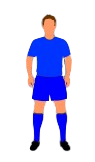
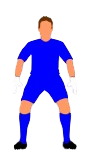
feat: add collapsible sidebar sections and equipment element sprites to tactical designer
Sidebar sections (Field Type, Players, Elements, Drawing Tools) now collapse/expand with chevron toggles. Replaced basic Konva shapes with PNG sprites from public/elements/ for ball, cone, disc, goal, ladder, mini-goal, and ring.

Changed region(s): [[0.1522, 0.0769, 0.8478, 0.9744], [0.7826, 0.5641, 0.8043, 0.6154], [0.8261, 0.5641, 0.8478, 0.5897]]

diff --git a/src/components/TacticalBoard.tsx b/src/components/TacticalBoard.tsx
@@ -5,12 +5,13 @@ import {
   Trash2,
   RotateCcw,
   Type,
-  Square,
   X,
   Target,
   RectangleVertical,
   RectangleHorizontal,
-  BoxSelect
+  BoxSelect,
+  ChevronDown,
+  ChevronRight,
 } from 'lucide-react';
 import useImage from 'use-image';
 import { cn } from '../lib/utils';
@@ -18,7 +19,8 @@ import { useTranslation } from '../hooks/useTranslation';
 
 type ElementType =
   | 'player' | 'gk'
-  | 'ball' | 'cone' | 'text'
+  | 'ball' | 'cone' | 'disc' | 'goal' | 'ladder' | 'miniGoal' | 'ring'
+  | 'text'
   | 'arrow' | 'curvedArrow' | 'zigzag'
   | 'dashedArrow' | 'dashedCurvedArrow' | 'dashedZigzag'
   | 'shape' | 'ellipse';
@@ -79,6 +81,44 @@ const SPRITE_IMAGES: Record<string, string> = {
   gk: '/avatar.png',
 };
 
+const ELEMENT_IMAGES: Record<string, string> = {
+  ball: '/elements/ball.png',
+  cone: '/elements/cone.png',
+  disc: '/elements/disc.png',
+  goal: '/elements/goal.png',
+  ladder: '/elements/ladder.png',
+  miniGoal: '/elements/mini-goal.png',
+  ring: '/elements/ring.png',
+};
+
+const ELEMENT_SPRITE_SIZE: Record<string, { w: number; h: number }> = {
+  ball: { w: 20, h: 20 },
+  cone: { w: 24, h: 24 },
+  disc: { w: 26, h: 10 },
+  goal: { w: 48, h: 32 },
+  ladder: { w: 20, h: 48 },
+  miniGoal: { w: 36, h: 24 },
+  ring: { w: 22, h: 22 },
+};
+
+const ELEMENT_TYPES: ElementType[] = ['ball', 'cone', 'disc', 'goal', 'ladder', 'miniGoal', 'ring'];
+
+const CollapsibleSection: React.FC<{ title: string; defaultOpen?: boolean; children: React.ReactNode }> = ({ title, defaultOpen = true, children }) => {
+  const [open, setOpen] = useState(defaultOpen);
+  return (
+    <div>
+      <button
+        onClick={() => setOpen(o => !o)}
+        className="flex items-center gap-1 w-full text-left text-[10px] text-on-surface-variant uppercase font-bold mb-2"
+      >
+        {open ? <ChevronDown className="w-3 h-3" /> : <ChevronRight className="w-3 h-3" />}
+        {title}
+      </button>
+      {open && children}
+    </div>
+  );
+};
+
 const AvatarSprite = ({ x, y, type, isSelected, draggable, onClick, onTap, onDragEnd, id }: {
   x: number; y: number; type: 'player' | 'gk'; isSelected: boolean;
   draggable?: boolean; onClick?: () => void; onTap?: () => void; onDragEnd?: (e: any) => void; id?: string;
@@ -95,6 +135,26 @@ const AvatarSprite = ({ x, y, type, isSelected, draggable, onClick, onTap, onDra
         <Image image={img} x={-half} y={-half} width={size} height={size} />
       ) : (
         <Circle radius={half} fill="#555" />
+      )}
+    </Group>
+  );
+};
+
+const ElementSprite = ({ x, y, type, isSelected, draggable, onClick, onTap, onDragEnd, onTransformEnd, id }: {
+  x: number; y: number; type: ElementType; isSelected: boolean;
+  draggable?: boolean; onClick?: () => void; onTap?: () => void; onDragEnd?: (e: any) => void; onTransformEnd?: (e: any) => void; id?: string;
+}) => {
+  const [img] = useImage(ELEMENT_IMAGES[type]);
+  const size = ELEMENT_SPRITE_SIZE[type] || { w: 24, h: 24 };
+  return (
+    <Group id={id} x={x} y={y} draggable={draggable} onClick={onClick} onTap={onTap} onDragEnd={onDragEnd} onTransformEnd={onTransformEnd}>
+      {isSelected && (
+        <Rect x={-size.w / 2 - 3} y={-size.h / 2 - 3} width={size.w + 6} height={size.h + 6} stroke="#fff" strokeWidth={2} cornerRadius={4} shadowBlur={10} shadowColor="white" />
+      )}
+      {img ? (
+        <Image image={img} x={-size.w / 2} y={-size.h / 2} width={size.w} height={size.h} />
+      ) : (
+        <Rect x={-size.w / 2} y={-size.h / 2} width={size.w} height={size.h} fill="#555" cornerRadius={3} />
       )}
     </Group>
   );
@@ -486,10 +546,9 @@ export const TacticalBoard: React.FC<TacticalBoardProps> = ({ onSave, onClose, i
 
         <div className="flex-1 flex overflow-hidden">
           {/* Toolbar */}
-          <div className="w-64 bg-surface-container-highest border-r border-black/10 p-4 flex flex-col gap-5 overflow-y-auto">
+          <div className="w-64 bg-surface-container-highest border-r border-black/10 p-4 flex flex-col gap-3 overflow-y-auto">
             {/* Field Type */}
-            <div>
-              <label className="text-[10px] text-on-surface-variant uppercase font-bold mb-2 block">{t('fieldType')}</label>
+            <CollapsibleSection title={t('fieldType')}>
               <div className="grid grid-cols-3 gap-2">
                 {[
                   { id: 'full', icon: RectangleVertical },
@@ -509,11 +568,10 @@ export const TacticalBoard: React.FC<TacticalBoardProps> = ({ onSave, onClose, i
                   </button>
                 ))}
               </div>
-            </div>
+            </CollapsibleSection>
 
             {/* Players */}
-            <div>
-              <label className="text-[10px] text-on-surface-variant uppercase font-bold mb-2 block">{t('playersAssets')}</label>
+            <CollapsibleSection title={t('playersAssets')}>
               <div className="grid grid-cols-2 gap-2">
                 <button onClick={() => { setActiveTool(null); addElement('player', '#3b82f6', 'AT'); }} className="flex flex-col items-center gap-1 p-2 bg-surface-container rounded border border-black/5 hover:border-primary transition-all">
                   <img src="/jogador.png" alt="Player" className="w-6 h-6 object-contain" />
@@ -524,26 +582,26 @@ export const TacticalBoard: React.FC<TacticalBoardProps> = ({ onSave, onClose, i
                   <span className="text-[9px] font-bold">{t('goalkeeperTool')}</span>
                 </button>
               </div>
-            </div>
+            </CollapsibleSection>
 
             {/* Elements */}
-            <div>
-              <label className="text-[10px] text-on-surface-variant uppercase font-bold mb-2 block">{t('elements')}</label>
-              <div className="grid grid-cols-2 gap-2">
-                <button onClick={() => { setActiveTool(null); addElement('ball', '#ffffff'); }} className="flex flex-col items-center gap-1 p-2 bg-surface-container rounded border border-black/5 hover:border-white transition-all">
-                  <div className="w-5 h-5 rounded-full bg-white border border-black/20" />
-                  <span className="text-[9px] font-bold">{t('ball')}</span>
-                </button>
-                <button onClick={() => { setActiveTool(null); addElement('cone', '#f97316'); }} className="flex flex-col items-center gap-1 p-2 bg-surface-container rounded border border-black/5 hover:border-orange-500 transition-all">
-                  <Square className="w-5 h-5 text-orange-500" />
-                  <span className="text-[9px] font-bold">{t('cone')}</span>
-                </button>
+            <CollapsibleSection title={t('elements')}>
+              <div className="grid grid-cols-3 gap-2">
+                {ELEMENT_TYPES.map(elType => (
+                  <button
+                    key={elType}
+                    onClick={() => { setActiveTool(null); addElement(elType); }}
+                    className="flex flex-col items-center gap-1 p-2 bg-surface-container rounded border border-black/5 hover:border-primary/50 transition-all"
+                  >
+                    <img src={ELEMENT_IMAGES[elType]} alt={elType} className="w-6 h-6 object-contain" />
+                    <span className="text-[9px] font-bold">{t(elType as any)}</span>
+                  </button>
+                ))}
               </div>
-            </div>
+            </CollapsibleSection>
 
             {/* Drawing Tools */}
-            <div>
-              <label className="text-[10px] text-on-surface-variant uppercase font-bold mb-2 block">{t('drawingTools')}</label>
+            <CollapsibleSection title={t('drawingTools')}>
               <div className="grid grid-cols-3 gap-2">
                 {DRAWING_TOOLS_CONFIG.map(tool => (
                   <button
@@ -571,7 +629,7 @@ export const TacticalBoard: React.FC<TacticalBoardProps> = ({ onSave, onClose, i
                   {t('clickAndDrag' as any)}
                 </p>
               )}
-            </div>
+            </CollapsibleSection>
 
             {/* Delete */}
             {selectedId && (
@@ -629,28 +687,15 @@ export const TacticalBoard: React.FC<TacticalBoardProps> = ({ onSave, onClose, i
                       return renderLineElement(el, isSelected);
                     }
 
-                    // Ball
-                    if (el.type === 'ball') {
+                    // Equipment elements (ball, cone, disc, goal, ladder, miniGoal, ring)
+                    if (ELEMENT_TYPES.includes(el.type)) {
                       return (
-                        <Circle
-                          key={el.id} {...dragProps(el)}
-                          x={el.x} y={el.y} radius={8}
-                          fill="white" stroke="black" strokeWidth={1}
-                          scaleX={el.scaleX} scaleY={el.scaleY}
-                          shadowBlur={selShadow} shadowColor="white"
-                        />
-                      );
-                    }
-
-                    // Cone
-                    if (el.type === 'cone') {
-                      return (
-                        <Rect
-                          key={el.id} {...dragProps(el)}
-                          x={el.x} y={el.y} width={16} height={16}
-                          fill={el.color} rotation={45}
-                          scaleX={el.scaleX} scaleY={el.scaleY}
-                          shadowBlur={selShadow} shadowColor="white"
+                        <ElementSprite
+                          key={el.id}
+                          {...dragProps(el)}
+                          x={el.x} y={el.y}
+                          type={el.type}
+                          isSelected={isSelected}
                         />
                       );
                     }

diff --git a/src/translations.ts b/src/translations.ts
@@ -500,12 +500,17 @@ export const translations = {
     halfPitch: 'Half Pitch',
     penaltyArea: 'Penalty Area',
     playersAssets: 'Players',
-    attacker: 'Attacker',
+    attacker: 'Goalkeeper',
     defender: 'Defender',
-    goalkeeperTool: 'Goalkeeper',
+    goalkeeperTool: 'Coach',
     elements: 'Elements',
     ball: 'Ball',
     cone: 'Cone',
+    disc: 'Disc',
+    goal: 'Goal',
+    ladder: 'Ladder',
+    miniGoal: 'Mini Goal',
+    ring: 'Ring',
     drawingTools: 'Drawing Tools',
     clickAndDrag: 'Click and drag on the field',
     straightArrow: 'Straight Arrow',
@@ -1108,12 +1113,17 @@ export const translations = {
     halfPitch: 'Meio Campo',
     penaltyArea: 'Grande Área',
     playersAssets: 'Jogadores',
-    attacker: 'Atacante',
+    attacker: 'Goleiro',
     defender: 'Defensor',
-    goalkeeperTool: 'Goleiro',
+    goalkeeperTool: 'Treinador',
     elements: 'Elementos',
     ball: 'Bola',
     cone: 'Cone',
+    disc: 'Disco',
+    goal: 'Baliza',
+    ladder: 'Escada',
+    miniGoal: 'Mini Baliza',
+    ring: 'Aro',
     drawingTools: 'Ferramentas de Desenho',
     clickAndDrag: 'Clique e arraste no campo',
     straightArrow: 'Seta Reta',
